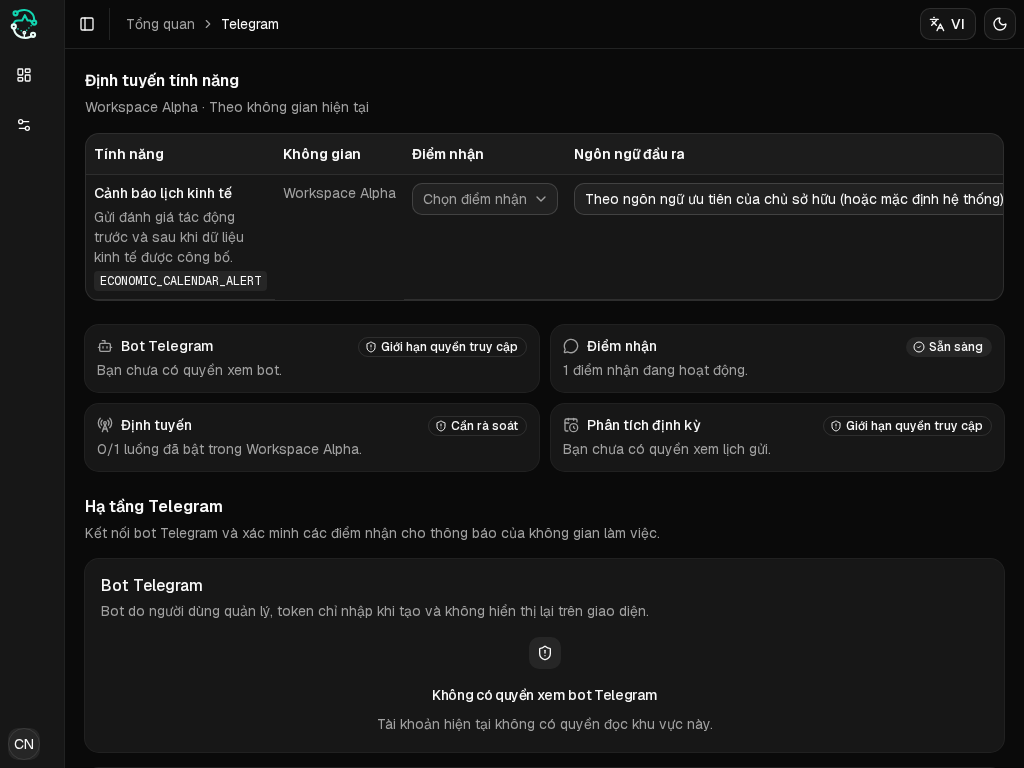
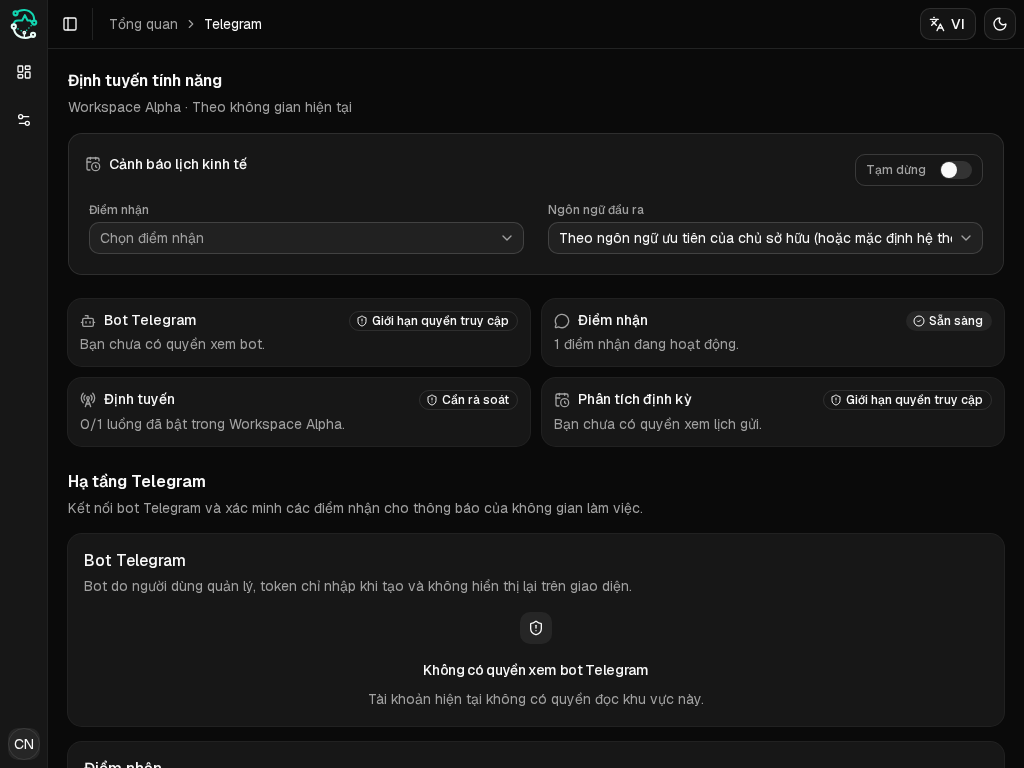
fix(telegram): keep economic route controls in frame

diff --git a/app/[lang]/(main)/telegram/telegram-configuration.tsx b/app/[lang]/(main)/telegram/telegram-configuration.tsx
@@ -1,6 +1,6 @@
 "use client"
 
-import { Fragment, useState, useTransition } from "react"
+import { Fragment, useEffect, useRef, useState, useTransition } from "react"
 import { useRouter } from "next/navigation"
 import {
   Bot,
@@ -549,11 +549,7 @@ function FeatureRoutingSection({
         <AppListTable className="mt-0">
           <Table>
             <TableHeader
-              className={
-                economicCalendarOnly
-                  ? "hidden md:table-header-group"
-                  : undefined
-              }
+              className={economicCalendarOnly ? "hidden" : undefined}
             >
               <AppListTableHeaderRow>
                 <AppListTableHead className="w-[32%]">
@@ -581,35 +577,48 @@ function FeatureRoutingSection({
                   className={cn(
                     "border-border transition-colors hover:bg-muted/50",
                     economicCalendarOnly &&
-                      "grid grid-cols-[minmax(0,1fr)_auto] gap-x-2 rounded-xl border bg-card p-3 md:table-row md:rounded-none md:border-0 md:bg-transparent md:p-0"
+                      "grid grid-cols-[minmax(0,1fr)_auto] gap-x-2 rounded-xl border bg-card p-3 md:grid-cols-2"
                   )}
                 >
                   <TableCell
                     className={cn(
-                      "block align-top whitespace-normal md:table-cell",
-                      economicCalendarOnly &&
-                        "col-start-1 row-start-1 min-w-0 border-b-0 px-1 py-2 md:table-cell md:border-b md:px-2 md:py-2"
+                      "block align-top whitespace-normal",
+                      economicCalendarOnly
+                        ? "col-start-1 row-start-1 min-w-0 border-b-0 px-1 py-2"
+                        : "md:table-cell"
                     )}
                   >
                     <div className="flex min-w-0 flex-col gap-1">
                       <span className="flex items-center gap-2 font-medium text-foreground">
                         {economicCalendarOnly ? (
-                          <CalendarClock className="size-4 shrink-0 text-muted-foreground md:hidden" />
+                          <CalendarClock className="size-4 shrink-0 text-muted-foreground" />
                         ) : null}
                         {route.label}
                       </span>
-                      <span className="sr-only text-sm text-muted-foreground md:not-sr-only md:block">
+                      <span
+                        className={cn(
+                          "text-sm text-muted-foreground",
+                          economicCalendarOnly
+                            ? "sr-only"
+                            : "sr-only md:not-sr-only md:block"
+                        )}
+                      >
                         {route.description}
                       </span>
-                      <code className="hidden w-fit rounded bg-muted px-1.5 py-0.5 text-xs text-foreground md:block">
+                      <code
+                        className={cn(
+                          "hidden w-fit rounded bg-muted px-1.5 py-0.5 text-xs text-foreground",
+                          !economicCalendarOnly && "md:block"
+                        )}
+                      >
                         {route.featureKey}
                       </code>
                     </div>
                   </TableCell>
                   <TableCell
                     className={cn(
-                      "block align-top text-sm text-muted-foreground md:table-cell",
-                      economicCalendarOnly && "hidden md:table-cell"
+                      "block align-top text-sm text-muted-foreground",
+                      economicCalendarOnly ? "hidden" : "md:table-cell"
                     )}
                   >
                     {currentWorkspace?.name ?? t.routing.noWorkspaceSelected}
@@ -617,7 +626,7 @@ function FeatureRoutingSection({
                   {route.featureKey === "ECONOMIC_CALENDAR_ALERT" ? (
                     <EconomicCalendarRouteControls
                       route={route}
-                      mobileCard={economicCalendarOnly}
+                      cardLayout={economicCalendarOnly}
                       activeDestinations={activeDestinations}
                       canReadDestinations={canReadDestinations}
                       destinationLoadError={destinationLoadError}
@@ -924,7 +933,7 @@ function MarketAnalysisSchedulePanel({
 }
 function EconomicCalendarRouteControls({
   route,
-  mobileCard,
+  cardLayout,
   activeDestinations,
   canReadDestinations,
   destinationLoadError,
@@ -934,7 +943,7 @@ function EconomicCalendarRouteControls({
   languageCatalogError,
 }: {
   route: FeatureRouteView
-  mobileCard: boolean
+  cardLayout: boolean
   activeDestinations: TelegramDestinationResponse[]
   canReadDestinations: boolean
   destinationLoadError: boolean
@@ -949,11 +958,26 @@ function EconomicCalendarRouteControls({
   const t = dictionary.telegram
   const selectedDestination = route.setting?.destination ?? null
   const selectedDestinationValue = selectedDestination?.id.toString() ?? ""
+  const destinationTriggerRef = useRef<HTMLButtonElement>(null)
+  const languageTriggerRef = useRef<HTMLButtonElement>(null)
+  const enabledSwitchRef = useRef<HTMLButtonElement>(null)
+  const focusAfterClear = useRef(false)
   const persistedLanguage = route.setting?.outputLanguage ?? null
   const persistedLanguageCode = persistedLanguage?.isoCode ?? ""
   const canMutate = canUpdate && Boolean(currentWorkspaceId) && !isPending
   const hasActiveDestinations = activeDestinations.length > 0
   const destinationItems = [...activeDestinations]
+
+  useEffect(() => {
+    if (!focusAfterClear.current || selectedDestination) return
+
+    const focusTarget =
+      destinationTriggerRef.current ??
+      languageTriggerRef.current ??
+      enabledSwitchRef.current
+    focusAfterClear.current = false
+    focusTarget?.focus()
+  }, [selectedDestination])
 
   if (
     canReadDestinations &&
@@ -1020,6 +1044,9 @@ function EconomicCalendarRouteControls({
         const result = await updateTelegramFeatureSetting(request.data)
 
         if (result.success) {
+          if (overrides.destinationId === null && overrides.enabled === false) {
+            focusAfterClear.current = true
+          }
           toast.success(successMessage)
           router.refresh()
         } else {
@@ -1069,13 +1096,14 @@ function EconomicCalendarRouteControls({
     <>
       <TableCell
         className={cn(
-          "block align-top whitespace-normal md:table-cell",
-          mobileCard &&
-            "col-span-2 row-start-2 min-w-0 border-b-0 px-1 py-2 md:table-cell md:border-b md:px-2 md:py-2"
+          "block align-top whitespace-normal",
+          cardLayout
+            ? "col-span-2 row-start-2 min-w-0 border-b-0 px-1 py-2 md:col-span-1 md:col-start-1 md:px-2"
+            : "md:table-cell"
         )}
       >
-        {mobileCard ? (
-          <span className="mb-1 block text-xs font-medium text-muted-foreground md:hidden">
+        {cardLayout ? (
+          <span className="mb-1 block text-xs font-medium text-muted-foreground">
             {t.routing.destinationColumn}
           </span>
         ) : null}
@@ -1119,6 +1147,7 @@ function EconomicCalendarRouteControls({
                 disabled={!canMutate || !hasActiveDestinations}
               >
                 <SelectTrigger
+                  ref={destinationTriggerRef}
                   aria-label={route.label}
                   className={cn(
                     "w-full",
@@ -1175,13 +1204,14 @@ function EconomicCalendarRouteControls({
       </TableCell>
       <TableCell
         className={cn(
-          "block align-top whitespace-normal md:table-cell",
-          mobileCard &&
-            "col-span-2 row-start-3 min-w-0 border-b-0 px-1 py-2 md:table-cell md:border-b md:px-2 md:py-2"
+          "block align-top whitespace-normal",
+          cardLayout
+            ? "col-span-2 row-start-3 min-w-0 border-b-0 px-1 py-2 md:col-span-1 md:col-start-2 md:row-start-2 md:px-2"
+            : "md:table-cell"
         )}
       >
-        {mobileCard ? (
-          <span className="mb-1 block text-xs font-medium text-muted-foreground md:hidden">
+        {cardLayout ? (
+          <span className="mb-1 block text-xs font-medium text-muted-foreground">
             {t.routing.languageColumn}
           </span>
         ) : null}
@@ -1202,6 +1232,7 @@ function EconomicCalendarRouteControls({
           disabled={!canMutate || languageCatalogError}
         >
           <SelectTrigger
+            ref={languageTriggerRef}
             className="w-full"
             aria-label={formatMessage(t.routing.languageAria, {
               route: route.label,
@@ -1244,15 +1275,16 @@ function EconomicCalendarRouteControls({
       </TableCell>
       <TableCell
         className={cn(
-          "block align-top md:table-cell",
-          mobileCard &&
-            "col-start-2 row-start-1 border-b-0 px-1 py-2 md:table-cell md:border-b md:px-2 md:py-2"
+          "block align-top",
+          cardLayout
+            ? "col-start-2 row-start-1 flex justify-end border-b-0 px-1 py-2 md:px-2"
+            : "md:table-cell"
         )}
       >
         <div
           className={cn(
             "inline-flex h-8 w-32 items-center justify-between gap-2 rounded-lg border border-input bg-transparent px-2.5 text-sm shadow-xs data-[disabled=true]:opacity-60",
-            mobileCard ? "mx-0 md:mx-auto" : "mx-auto"
+            cardLayout ? "mx-0" : "mx-auto"
           )}
           data-disabled={!canMutate ? true : undefined}
         >
@@ -1267,6 +1299,7 @@ function EconomicCalendarRouteControls({
             {route.setting?.enabled ? t.common.enabled : t.common.paused}
           </span>
           <Switch
+            ref={enabledSwitchRef}
             checked={Boolean(route.setting?.enabled)}
             disabled={!canMutate}
             onCheckedChange={(enabled) =>

diff --git a/tests/e2e/telegram-economic-calendar-routing.spec.ts b/tests/e2e/telegram-economic-calendar-routing.spec.ts
@@ -1,6 +1,6 @@
 import { expect, test } from "./fixtures"
 
-test("Economic calendar route access stays scoped and reflows on mobile", async ({
+test("Economic calendar route access stays scoped and reflows across viewports", async ({
   page,
   fixture,
 }) => {
@@ -30,6 +30,16 @@ test("Economic calendar route access stays scoped and reflows on mobile", async 
   })
 
   const row = page.locator('[data-route-key="ECONOMIC_CALENDAR_ALERT"]')
+  const destinationControl = row.getByRole("combobox", {
+    name: "Cảnh báo lịch kinh tế",
+    exact: true,
+  })
+  const languageControl = row.getByRole("combobox", {
+    name: "Chọn ngôn ngữ đầu ra cho Cảnh báo lịch kinh tế",
+  })
+  const routeSwitch = row.getByRole("switch", {
+    name: "Bật hoặc tắt định tuyến Cảnh báo lịch kinh tế",
+  })
   await expect(row).toBeVisible()
   await expect(
     page.getByText("Cảnh báo tin thị trường", { exact: true })
@@ -37,22 +47,9 @@ test("Economic calendar route access stays scoped and reflows on mobile", async 
   await expect(
     page.getByText("Phân tích thị trường định kỳ", { exact: true })
   ).toHaveCount(0)
-  await expect(
-    row.getByRole("combobox", {
-      name: "Cảnh báo lịch kinh tế",
-      exact: true,
-    })
-  ).toContainText("Chọn điểm nhận")
-  await expect(
-    row.getByRole("combobox", {
-      name: "Chọn ngôn ngữ đầu ra cho Cảnh báo lịch kinh tế",
-    })
-  ).toContainText("Theo ngôn ngữ ưu tiên")
-  await expect(
-    row.getByRole("switch", {
-      name: "Bật hoặc tắt định tuyến Cảnh báo lịch kinh tế",
-    })
-  ).not.toBeChecked()
+  await expect(destinationControl).toContainText("Chọn điểm nhận")
+  await expect(languageControl).toContainText("Theo ngôn ngữ ưu tiên")
+  await expect(routeSwitch).not.toBeChecked()
 
   const sidebar = page.locator('[data-slot="sidebar"]').first()
   await expect(sidebar).toHaveAttribute("data-state", "expanded")
@@ -76,6 +73,24 @@ test("Economic calendar route access stays scoped and reflows on mobile", async 
     )
     .toBeLessThan(100)
   await expect(row).toBeVisible()
+  await expect(destinationControl).toBeVisible()
+  await expect(languageControl).toBeVisible()
+  await expect(routeSwitch).toBeVisible()
+  const compactControlBounds = await Promise.all(
+    [destinationControl, languageControl, routeSwitch].map((control) =>
+      control.boundingBox()
+    )
+  )
+  for (const bounds of compactControlBounds) {
+    expect(bounds).not.toBeNull()
+    expect(bounds!.x).toBeGreaterThanOrEqual(0)
+    expect(bounds!.x + bounds!.width).toBeLessThanOrEqual(1024)
+    expect(bounds!.y).toBeGreaterThanOrEqual(0)
+    expect(bounds!.y + bounds!.height).toBeLessThanOrEqual(768)
+  }
+  expect(
+    Math.abs(compactControlBounds[0]!.y - compactControlBounds[1]!.y)
+  ).toBeLessThan(2)
   expect(
     await page.evaluate(() => document.documentElement.scrollWidth)
   ).toBeLessThanOrEqual(1024)
@@ -113,13 +128,24 @@ test("Economic calendar route access stays scoped and reflows on mobile", async 
 
   await page.setViewportSize({ width: 767, height: 768 })
   await expect(row.getByText("Điểm nhận", { exact: true })).toBeVisible()
+  const destinationBoundsAt767 = await destinationControl.boundingBox()
+  const languageBoundsAt767 = await languageControl.boundingBox()
+  expect(destinationBoundsAt767).not.toBeNull()
+  expect(languageBoundsAt767).not.toBeNull()
+  expect(destinationBoundsAt767!.y).toBeLessThan(languageBoundsAt767!.y)
   expect(
     await page.evaluate(() => document.documentElement.scrollWidth)
   ).toBeLessThanOrEqual(767)
 
   await page.setViewportSize({ width: 768, height: 768 })
-  await expect(row.getByText("Điểm nhận", { exact: true })).toBeHidden()
-  await expect(page.getByText("Tính năng", { exact: true })).toBeVisible()
+  await expect(row.getByText("Điểm nhận", { exact: true })).toBeVisible()
+  const destinationBoundsAt768 = await destinationControl.boundingBox()
+  const languageBoundsAt768 = await languageControl.boundingBox()
+  expect(destinationBoundsAt768).not.toBeNull()
+  expect(languageBoundsAt768).not.toBeNull()
+  expect(
+    Math.abs(destinationBoundsAt768!.y - languageBoundsAt768!.y)
+  ).toBeLessThan(2)
   expect(
     await page.evaluate(() => document.documentElement.scrollWidth)
   ).toBeLessThanOrEqual(768)
@@ -166,16 +192,16 @@ test("Economic calendar route access stays scoped and reflows on mobile", async 
   })
 
   const assignedRow = page.locator('[data-route-key="ECONOMIC_CALENDAR_ALERT"]')
-  const destinationControl = assignedRow.getByRole("combobox", {
+  const assignedDestinationControl = assignedRow.getByRole("combobox", {
     name: "Cảnh báo lịch kinh tế",
     exact: true,
   })
   const clearButton = assignedRow.getByRole("button", {
     name: "Xóa điểm nhận cho Cảnh báo lịch kinh tế",
   })
-  await expect(destinationControl).toContainText("Operations channel")
+  await expect(assignedDestinationControl).toContainText("Operations channel")
   await expect(clearButton).toBeVisible()
-  const destinationBounds = await destinationControl.boundingBox()
+  const destinationBounds = await assignedDestinationControl.boundingBox()
   const clearBounds = await clearButton.boundingBox()
   expect(destinationBounds).not.toBeNull()
   expect(clearBounds).not.toBeNull()
@@ -193,13 +219,15 @@ test("Economic calendar route access stays scoped and reflows on mobile", async 
       .outputPath("economic-calendar-off-assigned-mobile-dark-vi-390x844.png"),
   })
 
-  await clearButton.click()
+  await clearButton.focus()
+  await clearButton.press("Enter")
   await expect(
     page.getByText("Đã xóa điểm nhận và tạm dừng định tuyến.", {
       exact: true,
     })
   ).toBeVisible()
-  await expect(destinationControl).toContainText("Chọn điểm nhận")
+  await expect(assignedDestinationControl).toContainText("Chọn điểm nhận")
+  await expect(assignedDestinationControl).toBeFocused()
   await expect(
     assignedRow.getByRole("combobox", {
       name: "Chọn ngôn ngữ đầu ra cho Cảnh báo lịch kinh tế",
